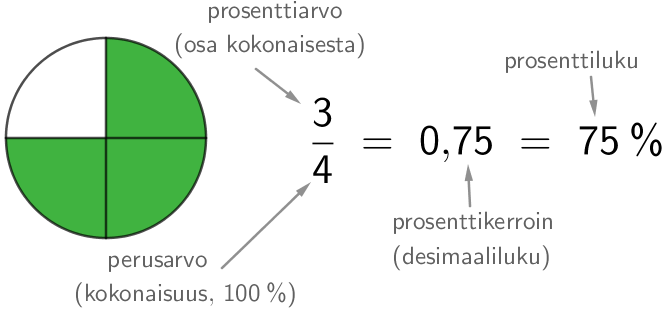
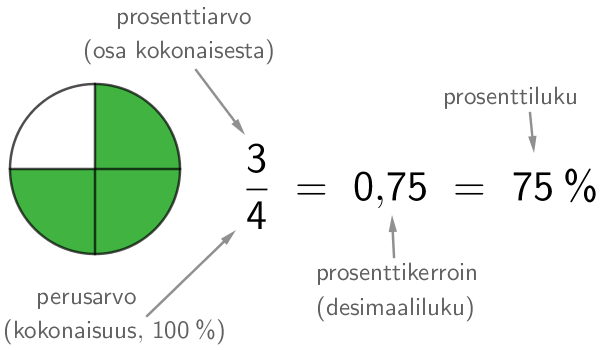
Päivitettiin MA8J2-kurssin teoriatiedostoja

diff --git a/ma8/j2/t/index.html b/ma8/j2/t/index.html
@@ -144,7 +144,7 @@
 					<p>Sadasosia on opittu aiemmin merkitsemään murtolukuina sekä desimaalilukuina, joten kolmanneksi tavaksi saadaan nyt prosenttiluku. Prosenttiluvun desimaalimuotoa kutsutaan prosenttikertoimeksi. Prosenttiluku mitataan aina suhteessa johonkin kokonaisuuteen eli perusarvoon. Prosenttilukua vastaava osuus perusarvosta on nimeltään prosenttiarvo.</p>
 					<div class="example">
 						<p><strong>Esimerkki:</strong> Kirjoita väritetyn osan suuruus murtolukuna, desimaalilukuna sekä prosenttilukuna.</p>
-						<img src="https://jannevenhoedu.github.io/ma8/j2/t/ma8j2_teoria_prosentti.png" style="width: 700px">
+						<img src="https://jannevenhoedu.github.io/ma8/j2/t/ma8j2_teoria_prosentti.png">
 					</div>
 				</div>
 			</div>
